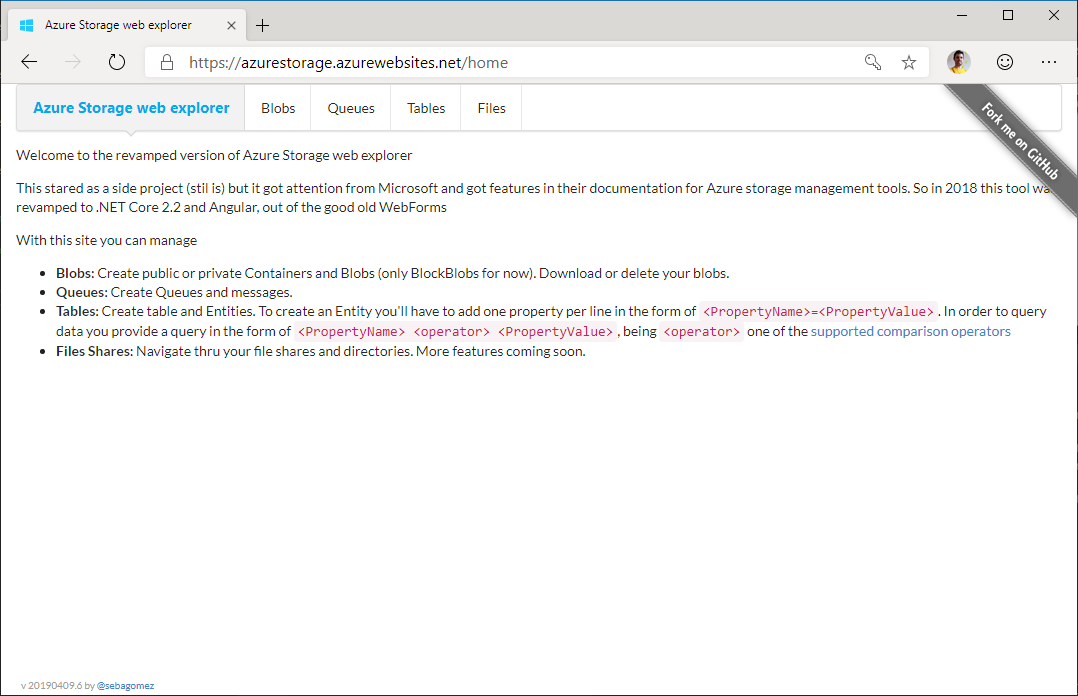
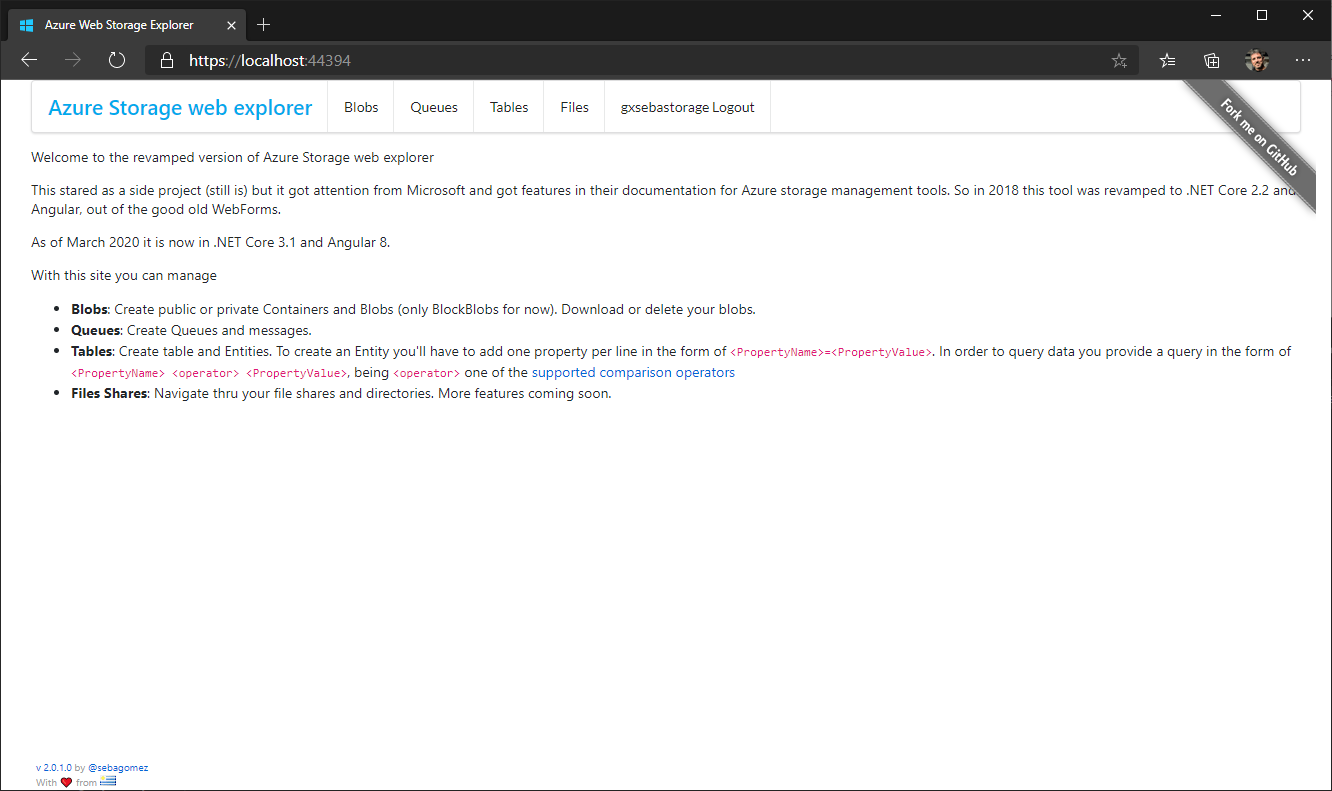
Fixed vulnerabilities and updated Nuget dependencies

Changed region(s): [[0.0, 0.0, 1.0, 0.5129], [0.0, 0.9655, 1.0, 1.0]]

diff --git a/README.md b/README.md
@@ -14,7 +14,7 @@ Azure Storage Web Explorer makes it easier for developers to browse and manage B
 
 To login just enter your account name and key or SAS ([Shared Access Signature](https://docs.microsoft.com/en-us/azure/storage/storage-create-storage-account#manage-your-storage-account))
 
-![Screenshot](https://github.com/sebagomez/azurestorageexplorer/blob/master/res/GitMain.png?raw=true)
+![Screenshot](https://github.com/sebagomez/azurestorageexplorer/blob/master/res/NewMainScreen.png?raw=true)
 
 
 **Blobs**: Create public or private Containers and Blobs (only BlockBlobs for now). Download or delete your blobs.
